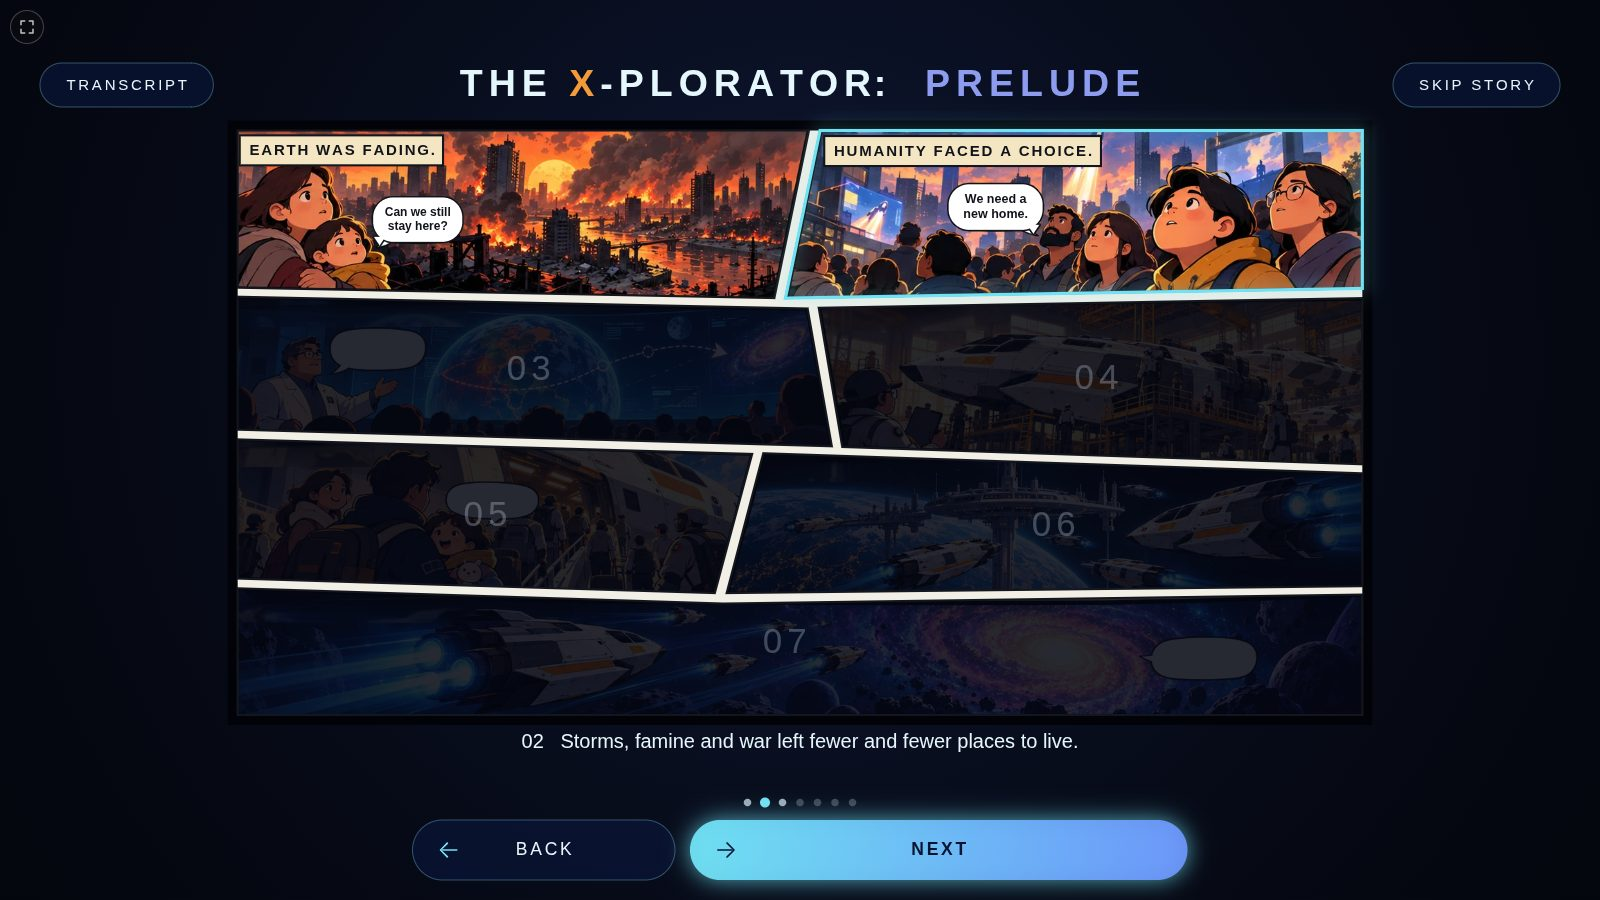
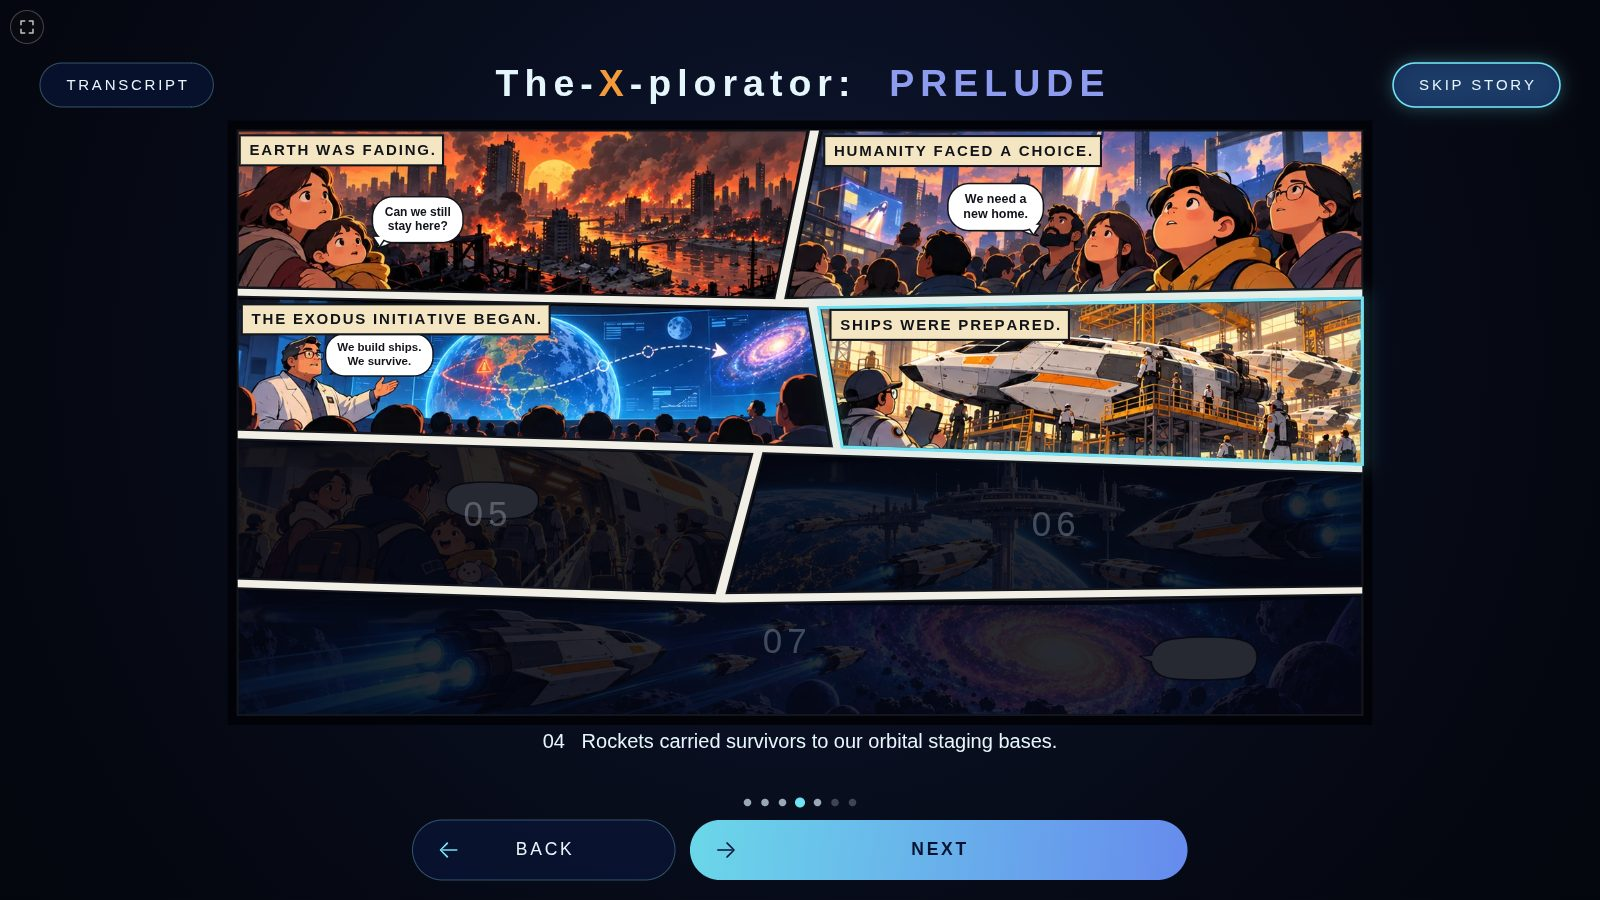
release: publish the rename to The-X-plorator on lot #323 (owner-approved)
Experience 4254c6d684ea9bdb from e48f752 (submission 13536) and the
street build with the new lot name (submission 13534, same geometry)
are live with no warnings. A guest visit on desktop and phone shows
the new name on the lot card and in the prologue, with no console
errors. Lot #696 unchanged.

Changed region(s): [[0.125, 0.0622, 1.0, 0.5289], [0.4062, 0.8711, 0.75, 0.9956], [0.3125, 0.8089, 0.6875, 0.84]]

diff --git a/docs/P0_PUBLISH_CHECKLIST.md b/docs/P0_PUBLISH_CHECKLIST.md
@@ -1,7 +1,7 @@
 # Lot #323 publication checklist
 
-**M1 published on 24 Oct 2026, the M2 experience on 29 Oct 2026, each with the owner's explicit
-approval.** Both parts are live on lot 323.
+**M1 published on 24 Oct 2026, the M2 experience on 29 Oct 2026 and the rename to The-X-plorator
+(game and street build) on 31 Oct 2026, each with the owner's explicit approval.** Both parts are live on lot 323.
 Every publish replaces what the lot shows for everyone and runs the city's review. Publishing again
 needs the owner's go-ahead. **Never use lot 696 (STARBOX)**: `tools/p0-publish.mjs` only accepts
 lot 323.
@@ -10,8 +10,8 @@ lot 323.
 
 | Deliverable | Source | Build | Live version |
 |---|---|---|---|
-| Street build "THE X-PLORATOR · Launch Beacon" (LOD0/1/2 + lot.json shaders + build.js) | `lot/` | `npm run lot:build` → `dist/lot/` | `02a57ea8b72b7df5-dc28e6a7f6bd1a2c` (submission 10771, `200 live`) |
-| Experience: THE X-PLORATOR M2 | `src/` (package root) | `npm run package` → `dist/the-xplorator-experience.zip` | `eb537c7b15a1fbb5` from `0a649d5` (submission 13114, `200 live`, no warnings); M1 was `2ad35ac72d7916ec` from `f337a9f` |
+| Street build "THE X-PLORATOR · Launch Beacon" (LOD0/1/2 + lot.json shaders + build.js) | `lot/` | `npm run lot:build` → `dist/lot/` | `02a57ea8b72b7df5-dc28e6a7f6bd1a2c`, name "The-X-plorator · Launch Beacon" (submission 13534, `200 live`) |
+| Experience: THE X-PLORATOR M2 | `src/` (package root) | `npm run package` → `dist/the-xplorator-experience.zip` | `4254c6d684ea9bdb` from `e48f752` (submission 13536, `200 live`, no warnings); before: `eb537c7b15a1fbb5` (M2), `2ad35ac72d7916ec` (M1) |
 
 ## Before every publish
 

diff --git a/CHANGELOG.md b/CHANGELOG.md
@@ -1,5 +1,22 @@
 # Changelog
 
+## 0.3.2-m2 — 2026-10-31 (live on lot #323)
+
+### Changed
+- The name players see is now **The-X-plorator** (owner request): the city's experience name and
+  credits, the lot name "The-X-plorator · Launch Beacon" and its description, the main menu logo, the
+  prologue header and panel 7's caption, the standalone page. The coloured X stays. Save keys, log tags
+  and the lot's neon sign ("X-PLORATOR", uppercase stroke letters) are unchanged.
+
+### Fixed
+- Phone prologue: the caption plate shrinks its text to fit the frame (the longer panel 7 caption
+  touched the edge at 390 px).
+
+### Published
+- Experience `4254c6d684ea9bdb` from `e48f752` (submission 13536) and the street build with the new
+  name (submission 13534, geometry unchanged: `02a57ea8b72b7df5-dc28e6a7f6bd1a2c`), both `200 live` with
+  no warnings, owner-approved. Tag `m2.1-live-lot323`.
+
 ## 0.3.1-m2 — 2026-10-26 (owner playtest fixes; live on lot #323 since 2026-10-29)
 
 ### Published

diff --git a/README.md b/README.md
@@ -1,7 +1,8 @@
 # THE X-PLORATOR 🚀
 
 **A serene cosmic exploration and colony-building game for Project 0 City (lot #323) and the browser.**
-Status: **M2 live on lot #323** since 29 Oct 2026 (https://project0.city/lot/323; tag `m2-live-lot323`,
+Status: **M2 live on lot #323** since 29 Oct 2026, shown to players as **The-X-plorator** since 31 Oct
+(https://project0.city/lot/323; tag `m2.1-live-lot323`,
 branch `dev/m2-exodus-comic-ship`): Exodus prologue, new Explorer Mk2, first-flight tutorial, audio and
 visual polish. M1 "Outer Verge" (live 24-29 Oct 2026) is kept as tag `m1-live-lot323`.
 

diff --git a/M2_UPDATE_REPORT.md b/M2_UPDATE_REPORT.md
@@ -39,6 +39,7 @@ validated UI fixes that were never published.
 
 | Tag (pushed) | Commit | What |
 |---|---|---|
+| `m2.1-live-lot323` | `e48f752` | live since 31 Oct 2026: the name The-X-plorator (experience `4254c6d684ea9bdb`) |
 | `m2-live-lot323` | `0a649d5` | M2, live on lot #323 since 29 Oct 2026 (experience `eb537c7b15a1fbb5`) |
 | `m1-live-lot323` | `f337a9f` | M1, live on lot #323 24-29 Oct 2026 (experience `2ad35ac72d7916ec`) |
 | `m1-baseline` | `0c23a19` | M2 starting point (M1 + the two unpublished UI fixes) |
